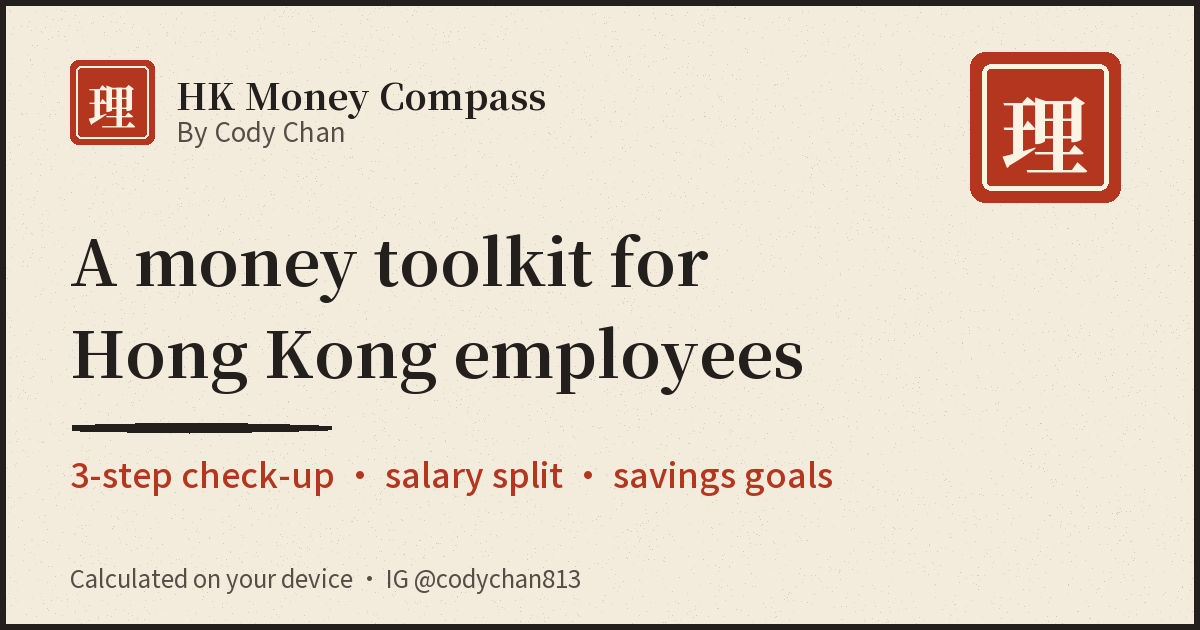
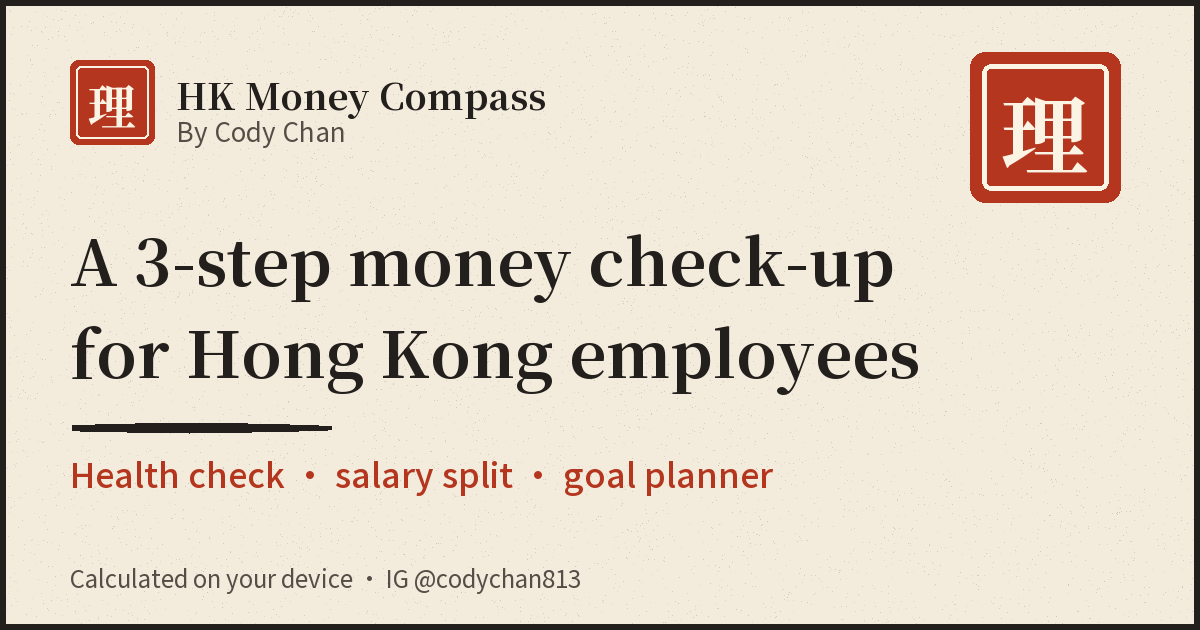
copy: one name on the homepage; title says "3-step money check-up"
- Drop the hero kicker (full site name); the header already carries
  the brand.
- Headline becomes "香港打工仔 3 步理財體檢" / "A 3-step money check-up
  for Hong Kong employees", matching the start button.
- Link-preview images and page descriptions follow; descriptions no
  longer mention medical cost data, which moved to the sister site.

Changed region(s): [[0.0617, 0.5127, 0.7708, 0.6333], [0.0925, 0.3619, 0.74, 0.4825], [0.0617, 0.7238, 0.7092, 0.7841]]

diff --git a/en/index.html b/en/index.html
@@ -4,7 +4,7 @@
   <meta charset="utf-8">
   <meta name="viewport" content="width=device-width, initial-scale=1, viewport-fit=cover">
   <title>HK Money Compass by Cody Chan | Money tools for Hong Kong employees</title>
-  <meta name="description" content="A money toolkit for Hong Kong employees: a 3-step check-up of your emergency fund, how much your salary should save after MPF, and how long it takes to reach your goal. Plus medical cost data, market notes and credit card rebates.">
+  <meta name="description" content="A 3-step money check-up for Hong Kong employees: your emergency fund, how much your salary should save after MPF, and how long it takes to reach your goal. Plus market notes and credit card rebates.">
   <meta name="theme-color" content="#F3ECDD">
   <link rel="stylesheet" href="/assets/css/style.css">
 </head>
@@ -12,8 +12,7 @@
 <main>
   <div class="wrap stack">
     <section class="hero landing-hero">
-      <div class="kicker">HK Money Compass</div>
-      <h1>A money toolkit for<br>Hong Kong employees</h1>
+      <h1>A 3-step money check-up<br>for Hong Kong employees</h1>
       <p class="lead">If your pay stopped, how many months could your savings last? Step 1 is 10 questions, 2 minutes, and you get a score straight away. No lectures. Just the numbers.</p>
       <div class="by"><span data-seal="理"></span>By Cody Chan · Hong Kong insurance and financial planning consultant</div>
       <ul class="gains" id="gains" aria-label="What you get">

diff --git a/index.html b/index.html
@@ -4,7 +4,7 @@
   <meta charset="utf-8">
   <meta name="viewport" content="width=device-width, initial-scale=1, viewport-fit=cover">
   <title>香港地一站式理財資訊通 By Cody Chan｜香港打工仔理財計算工具</title>
-  <meta name="description" content="香港打工仔嘅理財工具箱：3 步理財體檢，睇清備用金夠唔夠、月薪扣強積金後每月應該儲幾多、儲 50 萬要幾耐，仲有醫療費用數據、雙週市場速遞同信用卡回贈整理。">
+  <meta name="description" content="香港打工仔 3 步理財體檢：睇清備用金夠唔夠、月薪扣強積金後每月應該儲幾多、儲 50 萬要幾耐，仲有雙週市場速遞同信用卡回贈整理。">
   <meta name="theme-color" content="#F3ECDD">
   <link rel="stylesheet" href="/assets/css/style.css">
 </head>
@@ -12,8 +12,7 @@
 <main>
   <div class="wrap stack">
     <section class="hero landing-hero">
-      <div class="kicker">香港地一站式理財資訊通</div>
-      <h1>香港打工仔嘅<br>理財工具箱</h1>
+      <h1>香港打工仔<br>3 步理財體檢</h1>
       <p class="lead">冇咗人工，你嘅積蓄夠撐幾多個月？第 1 步 10 條題、2 分鐘，即刻有分數。唔講大道理，直接計。</p>
       <div class="by"><span data-seal="理"></span>By Cody Chan・香港保險理財顧問</div>
       <ul class="gains" id="gains" aria-label="做完你會有">

diff --git a/scripts/make_images.py b/scripts/make_images.py
@@ -17,8 +17,8 @@ PAPER, INK, INK2, SHU, CREAM = (243, 236, 221), (35, 31, 28), (86, 78, 70), (181
 
 # key: (印章字, 中文標題, 中文副題, 英文標題, 英文副題)；長標題用 | 手動斷行
 CARDS = {
-    "home": ("理", "香港打工仔嘅|理財工具箱", "3 步理財體檢・月薪分配・儲錢目標",
-             "A money toolkit for|Hong Kong employees", "3-step check-up · salary split · savings goals"),
+    "home": ("理", "香港打工仔|3 步理財體檢", "健康檢查・月薪分配・目標計算",
+             "A 3-step money check-up|for Hong Kong employees", "Health check · salary split · goal planner"),
     "salary": ("薪", "月薪扣強積金，|實際到手幾多？", "月薪分配計算器：50/30/20 即刻分好",
                "After MPF, what do|you actually take home?", "Salary split calculator: 50/30/20 in seconds"),
     "goal": ("標", "想儲 50 萬要幾耐？", "理財目標計算機：唔同回報率一次過比較",
